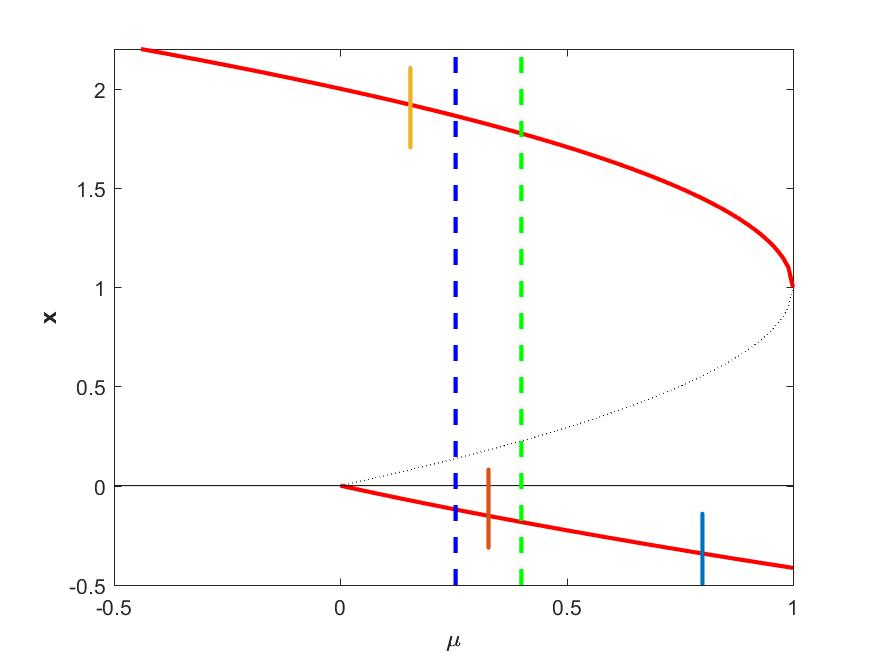
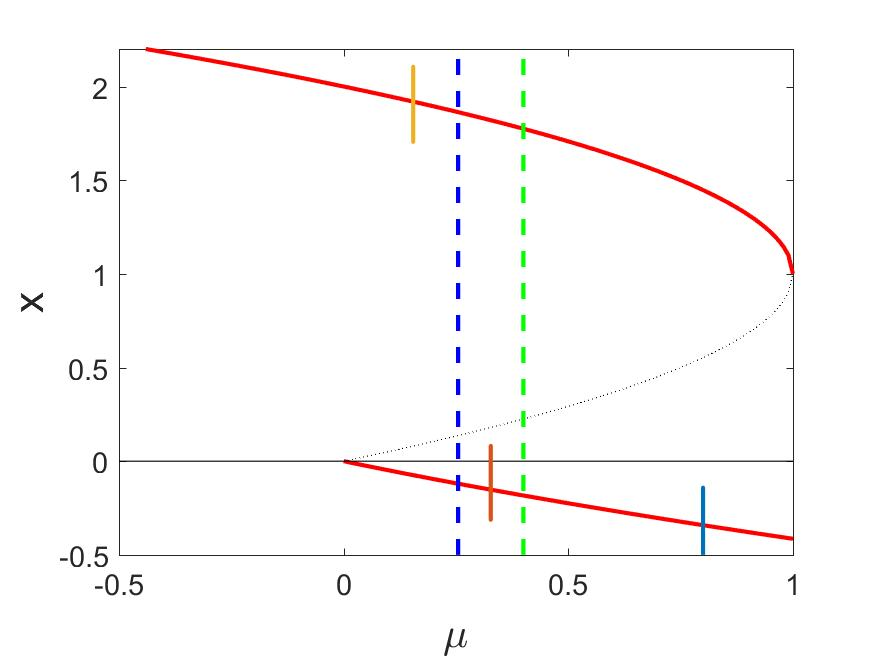
OneD slowosc+osc

diff --git a/Complete/OneD_matlab/Slow_Osc/lambda_compare.m b/Complete/OneD_matlab/Slow_Osc/lambda_compare.m
@@ -25,7 +25,7 @@ if value == 1 || value == 3
     slowtipvec = zeros(1,n);
     eps = .01;
 
-    parfor i = 1:length(lambdavec)
+    parfor i = 1:n
     %Initial values and set up
     lambda = lambdavec(i);
     Omega = eps^(-lambda);
@@ -36,7 +36,7 @@ if value == 1 || value == 3
 
     %Numerics
     h=min(.01, 2 * pi/(10 * Omega));
-    start = 1.5; stop = -.5;
+    start = .5; stop = -.5;
     time = abs(stop - start)/eps;
     muInit = start;
     yInit = 1-sqrt(1 + muInit);
@@ -48,7 +48,7 @@ if value == 1 || value == 3
     [~, y, mu] = RK2sys(yDE, muDE, yInit, muInit, 0, time, h);
 
     %Comparison
-    truetipvec(i) = mu(find(y < criteria, 1));
+    truetipvec(i) = mu(find(y > criteria, 1));
     estimatedtipvec(i) = muosc + mudel * eps^((lambda-1)/3)*(pi * abs(A)/2)^(1/3);
     slowtipvec(i) = eps*log(eps)/2;
     end
@@ -76,18 +76,17 @@ end
 
 if value == 2 || value == 3
     % This will compare epsilon over a single choice in lambda
-    epsvec = linspace(.005,.01,n);
+    epsvec = linspace(.005,.02,n);
     truetipvec = zeros(1,n);
     estimatedtipvec = zeros(1,n);
     slowtipvec = zeros(1,n);
 
     %Set up for an example of each case
-    lambdavec = [.8, 1.3];
-    delete('slowosc_epscomp_information.txt')
+    lambdavec = [.6, 2];
     for k=2:3
         lambda = lambdavec(k-1);
 
-        parfor i = 1:length(epsvec)
+        parfor i = 1:n
             %Initial values and set up
             eps = epsvec(i);
             Omega = eps^(-lambda);
@@ -97,8 +96,8 @@ if value == 2 || value == 3
             B = eps^(lambda-1) * abs(A);
 
             %Numerics
-            h = min(.01, 2 * pi/(20 * Omega));
-            start = 1.5; stop = -.5;
+            h = min(.01, 2 * pi/(10 * Omega));
+            start = .5; stop = -.5;
             time = abs(stop - start)/eps;
             muInit = start;
             yInit = 1 - sqrt(1 + muInit);
@@ -109,7 +108,7 @@ if value == 2 || value == 3
             [~, y, mu] = RK2sys(yDE, muDE, yInit, muInit, 0, time, h);
 
             %Comparison
-            truetipvec(i) = mu(find(y < criteria, 1, 'last'));
+            truetipvec(i) = mu(find(y > criteria,1));
             estimatedtipvec(i) = muosc + mudel * (pi * B/2)^(1/3);
             slowtipvec(i) = eps * log(eps)/2;
         end

diff --git a/Complete/OneD_matlab/Osc/oneD_comparison.m b/Complete/OneD_matlab/Osc/oneD_comparison.m
@@ -1,0 +1,54 @@
+%Full analysis of OneD Osc.
+%(1)A dynamics plot and a (2)comparison plot against frequency will be produced
+
+criteria =.2;
+
+% Load function folder
+addpath('C:\Users\codyg\Desktop\Thesis-Master\trunk\Complete\Functions')
+cd('C:\Users\codyg\Desktop\Thesis-Master\trunk\Complete\Graphs\OneD_w_Osc')
+ 
+
+% Comparison plot
+A=1;
+M=20;
+invOmegavec=linspace(.001,.2,M);
+bifvec=zeros(1,length(invOmegavec));
+bifactualvec=zeros(1,length(invOmegavec));
+ 
+parfor i=1:M
+    invOmega=invOmegavec(i);
+    %Make sure to have a time step that will capture highly oscillatory
+    %pieces
+    h=min(.01,2*pi*invOmega/(10));
+    start=.5;stop=0;
+    %Have a parameter grid fine enough to see the different bifurcation
+    %locations for highly oscillatory cases
+    muper=fliplr(linspace(stop,start,500));
+    N=length(muper);
+    yfinal=zeros(1,N);
+     
+    %Numerical Solution
+    for j=1:N
+        yInit=1-sqrt(1+muper(j));
+        yDE=@(t,y)(-muper(j)+2*abs(y)-y*abs(y)+A*sin(t/invOmega));
+        [t,y]=RK2(yDE,yInit,0,15,h);
+        yfinal(j)=y(end);
+    end
+ 
+    bifvec(i)=4*abs(A)*invOmega/(pi);
+    bifactualvec(i)=muper(find(yfinal>criteria,1));
+end
+
+close(figure(1))
+figure(1)
+plot(invOmegavec,bifvec,'k','linewidth',2);
+hold on
+plot(invOmegavec,bifactualvec,'r*');
+set(gca,'fontsize',14)
+xlabel('\Omega^{-1}','fontsize',20);
+ylabel('\mu','fontsize',20)
+
+
+print('-f1','osc_Omegacomp','-djpeg')
+
+

diff --git a/Complete/OneD_matlab/Slow_Osc/oneD_slow_osc.m b/Complete/OneD_matlab/Slow_Osc/oneD_slow_osc.m
@@ -6,7 +6,7 @@ cd('C:\Users\codyg\Desktop\Thesis-Master\trunk\Complete\Graphs\OneD_slowosc')
 
 %Initial values and set up
 eps = .01;
-lambda = 1.6;
+lambda = .8;
 Omega = eps^(-lambda);
 A = 1;
 criteria=.2;
@@ -70,6 +70,8 @@ title('')
 
 if lambda> 1.5
     print('-f1','slowosc_bif_diagram_large','-djpeg')
+elseif lambda>1
+    print('-f1', 'slowosc_bif_diagram_medium','-djpeg')
 else
     print('-f1','slowosc_bif_diagram_small','-djpeg')
 end
@@ -82,7 +84,9 @@ plot(truetipvec, yvec, 'k','linewidth',2)
 xlim([tipping-.01 region1boundary+.05])
 ylim([-.1 .3])
 if lambda>1.5
-    print('-f1', 'slowosc_bif_diagram__large_zoom','-djpeg')
+    print('-f1', 'slowosc_bif_diagram_large_zoom','-djpeg')
+elseif lambda>1
+    print('-f1', 'slowosc_bif_diagram_medium_zoom','-djpeg')
 else
-    print('-f1', 'slowosc_bif_diagram__small_zoom','-djpeg')
+    print('-f1', 'slowosc_bif_diagram_small_zoom','-djpeg')
 end

diff --git a/Complete/OneD_matlab/Osc/oneD_osc_fix.m b/Complete/OneD_matlab/Osc/oneD_osc_fix.m
@@ -50,9 +50,9 @@ for i=1:N
         labs{i}='\mu after bifurcation';
     end
 end
-xlabel('\bf{Time}')
-ylabel('\bf{x}')
-legend(labs,'Location','west')
+set(gca,'fontsize',14)
+xlabel('Time','fontsize',20)
+ylabel('x','fontsize',20)
 
 print('-f1','osc_timeseries','-djpeg')
 
@@ -79,8 +79,9 @@ plot(mulower,xlower,'r','linewidth',2)
 hold on
 plot(mumid,xmid,'k:')
 plot(muupper,xupper,'r','linewidth',2)
-xlabel('\bf{\mu}')
-ylabel('\bf{x}')
+set(gca,'fontsize',14)
+xlabel('\mu','fontsize',20)
+ylabel('x','fontsize',20)
 
 % x=0 axis
 plot(linspace(-1,1,100),zeros(1,100),'k')
